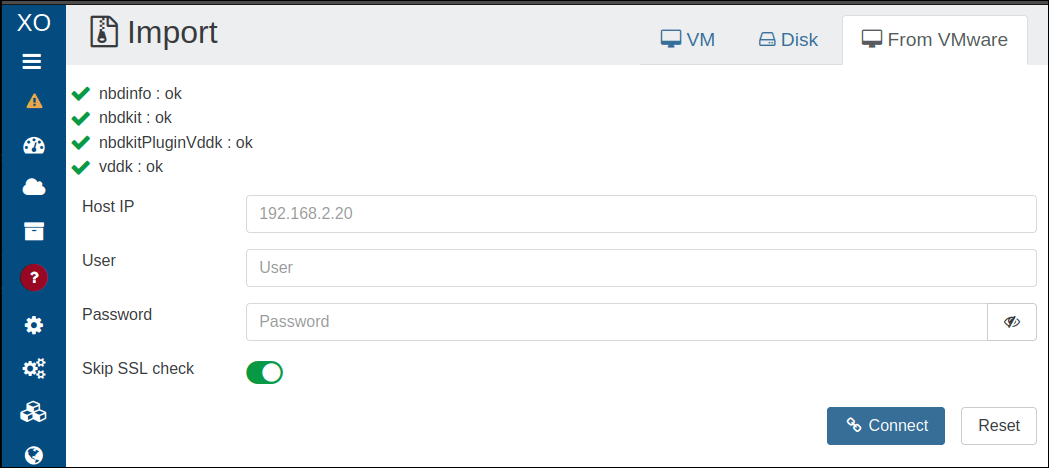
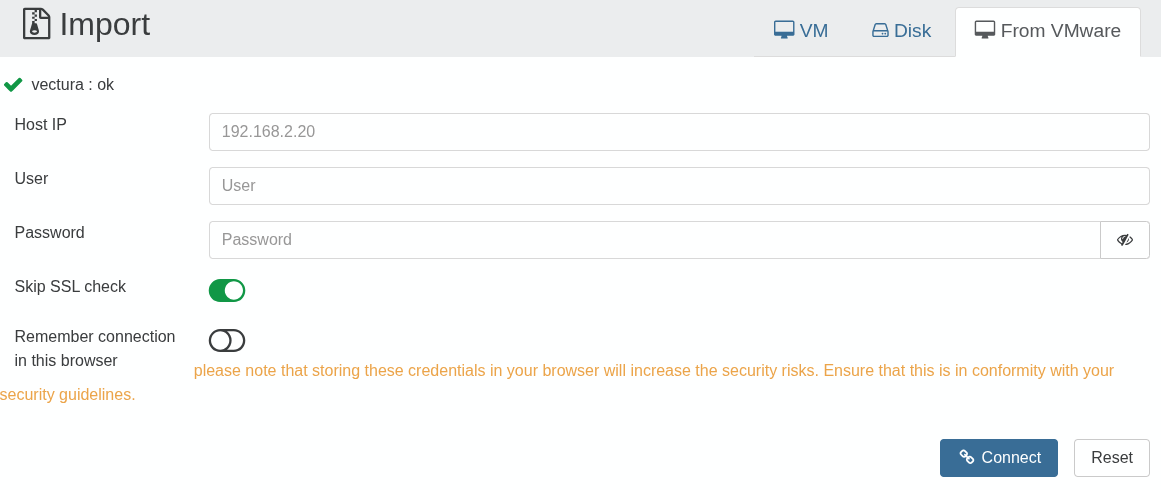
docs(v2v): replace VDDK screenshots with vectura ones
Update the prerequisite check and transfer form screenshots, and remove the unused VDDK/nbdinfo ones.

diff --git a/docs/docs/guides/v2v-migration-guide.md b/docs/docs/guides/v2v-migration-guide.md
@@ -92,7 +92,7 @@ Performance gains can be significant, though results depend on the environment:
 
 Make sure your Xen Orchestra instance is up to date. The import page includes an automatic check that verifies that `vectura`, shipped with your Xen Orchestra, runs on this system. Errors must be resolved before the migration can start.
 
-<UiDetail src="/img/xo5/v2v-prerequisite-check.png" alt="The prerequisite check on the import page, showing the status of vectura" width={480} />
+<UiDetail src="/img/xo5/v2v-prerequisite-check.png" alt="The prerequisite check on the import page, showing the status of vectura" width={232} />
 
 ### Dependencies
 
